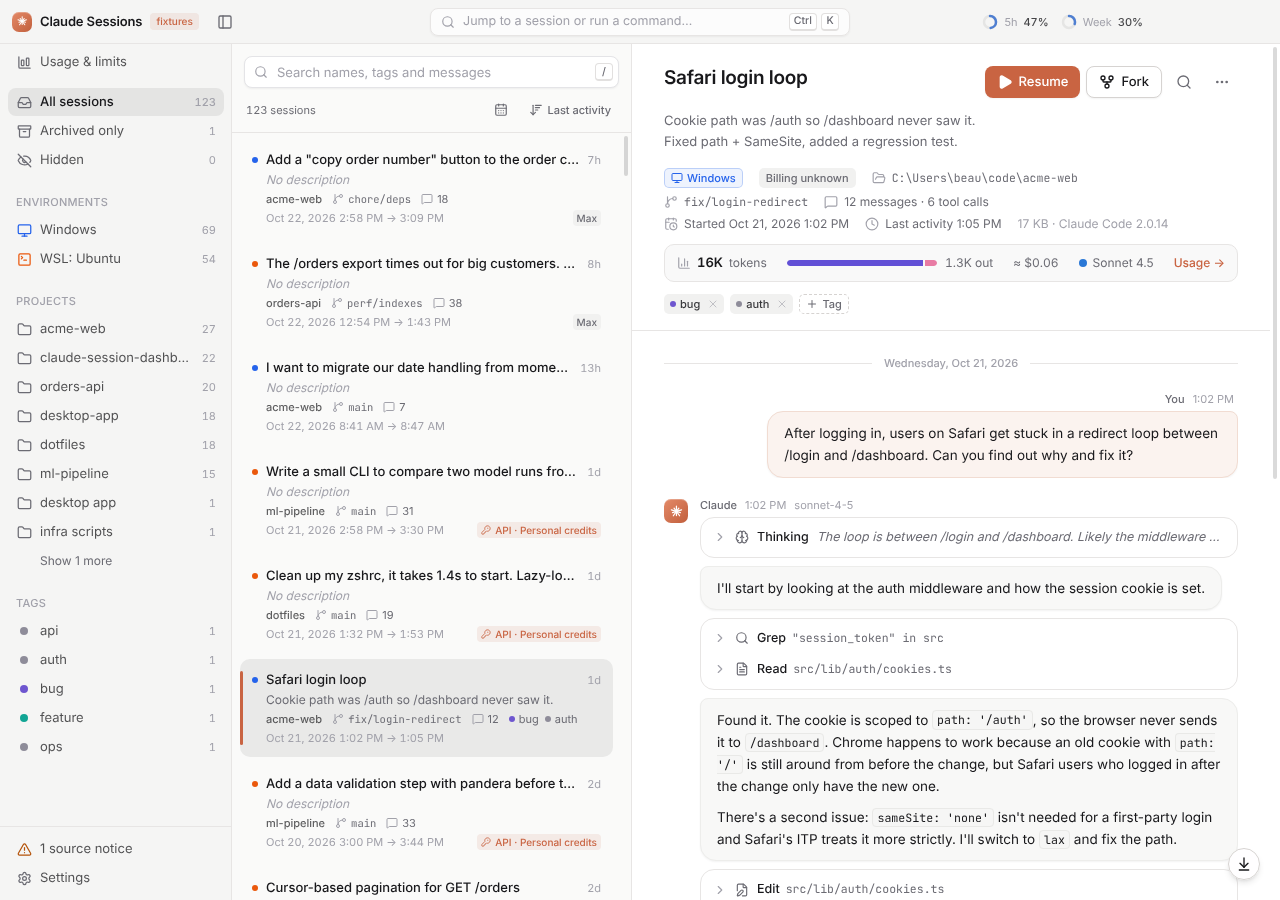
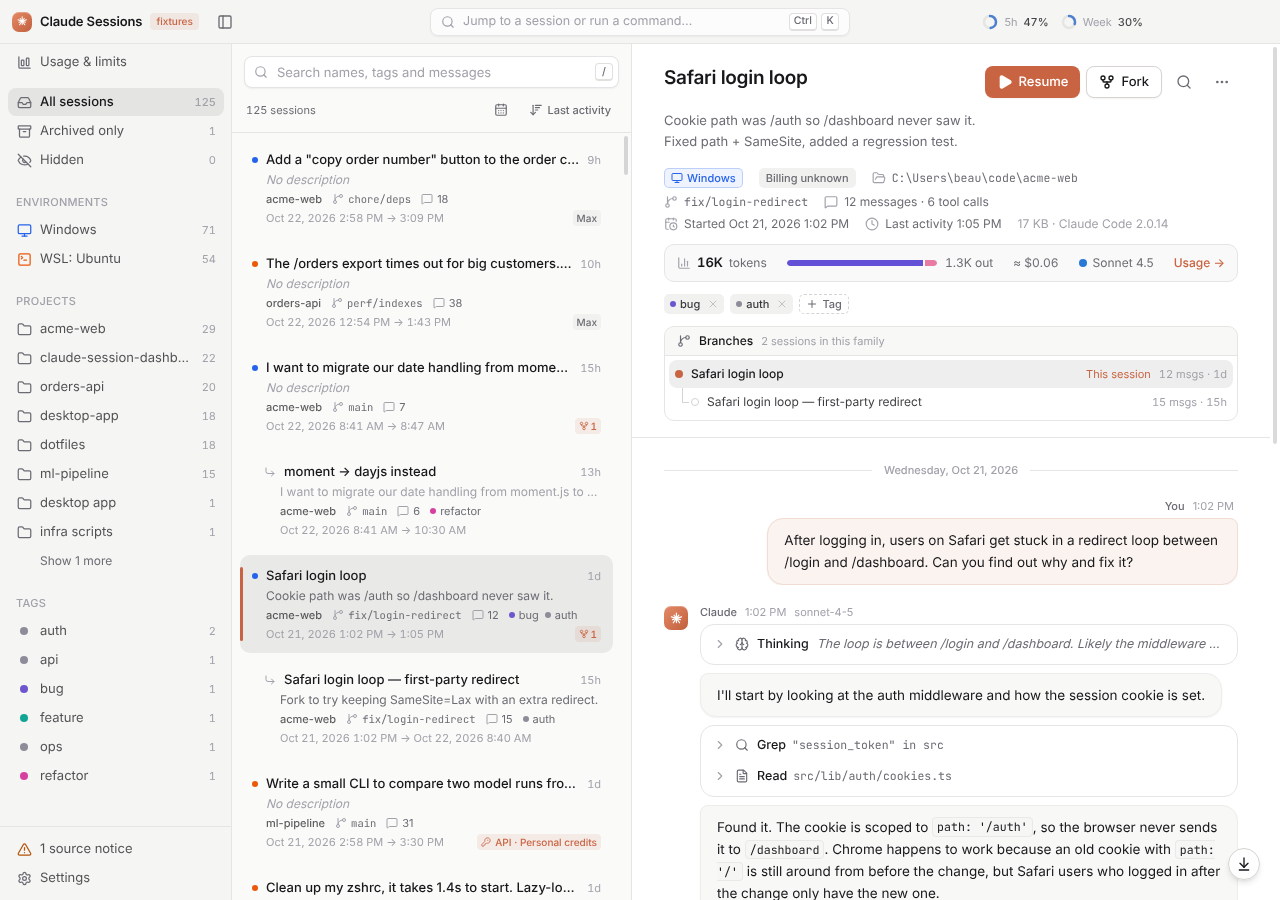
Document branching, its .claude exception and decisions; add screenshots
Claude-Session: https://claude.ai/code/session_015gkGBycyM6KsCDcotDQC5D

diff --git a/README.md b/README.md
@@ -17,6 +17,10 @@ resumes any session in a terminal with its full context.
 - **Resume and Fork** in Windows Terminal (or PowerShell / cmd). `--dangerously-skip-permissions`
   is on by default, with a per-launch checkbox and a warning label. "Copy resume command" lets you
   paste it yourself.
+- **Branch from any message.** Hover a message and click **Branch** (or right-click it) to continue
+  the conversation from that point in a new session, with the same launch options as Resume. Branches
+  and forks show up in a **Branches** panel with a small family tree, and the list can group them
+  under their parent. Forks made outside the app are detected too. See [Branching](#branching).
 - **A permanent archive.** Every session file is copied to `%APPDATA%\ClaudeSessionDashboard\archive`,
   so sessions survive Claude Code's `cleanupPeriodDays` cleanup. If the original is gone, Resume puts
   the archived copy back first (it never overwrites an existing file).
@@ -38,7 +42,9 @@ The app is built around these rules (see `CLAUDE.md`):
    exception: when you resume a session whose file is _missing_, it copies the archived copy back to
    the original path. That copy uses an exclusive-create flag, so it can never overwrite a file.
    Every other write goes through a guard that refuses any path inside a `.claude` folder or outside
-   the app's data folder.
+   the app's data folder. **Branch from here** adds one more narrow case: it creates one _new_
+   session file next to the session it branches from (see [Branching](#branching)). It never
+   changes or deletes an existing file.
 2. The app's own data lives only in `%APPDATA%\ClaudeSessionDashboard\` (metadata, settings, archive,
    cache, and Chromium's own files).
 3. There is no "delete session" feature. **Hide** is only a flag in the app's metadata.
@@ -134,6 +140,35 @@ WSL session:      wt.exe wsl.exe -d <distro> --cd "<linux-cwd>" -- bash -lic "cl
 
 If `wt.exe` isn't found, the app falls back to a new PowerShell window. You can also pick PowerShell
 or cmd as your preferred terminal.
+
+### Branching
+
+![Branch dialog](docs/branch-dialog.png)
+
+- **Branch from here:** hover a message (yours or Claude's) and click **Branch**, or right-click it.
+  Right-clicking one of your messages also offers **Branch from before this message**, to ask
+  something different from that point. The dialog shows the message the branch ends with, how many
+  messages it keeps, the new file, and the usual launch options (folder, terminal, billing,
+  `--dangerously-skip-permissions`). **Branch** creates the session and resumes it; **Create only**
+  just creates it.
+- **The first time**, the app explains what it writes and asks you to confirm: one new session file
+  (with a new session id) in the same project folder in `.claude/projects`. Nothing existing is
+  changed or deleted, so the original session stays exactly as it was.
+- **Tool calls stay whole.** If the message you pick calls tools whose results come later, the
+  branch includes those results. If that isn't possible (for example, you typed a new message before
+  a result arrived), it ends at the nearest earlier point where every tool call has its result. The
+  dialog tells you when this happens.
+- **Naming:** a new branch is called `<parent name> — branch` (numbered if that's taken) and opens
+  with its name selected, so you can type a better one straight away. Forks started with the **Fork**
+  button get the same name when they appear.
+- **Fork** (the button next to Resume) still branches from the end with `claude --resume <id>
+--fork-session`.
+- **Lineage:** the **Branches** section at the top of a session shows where it was branched from
+  (and after which message), and a tree of the whole family; click any entry to open it. In the
+  transcript, a marker shows where a branch starts, and where other branches split off. In the list,
+  branches sit under their parent (turn this off in the sort menu: **Group branches under parent**).
+
+![Branches panel and branch point](docs/branches.png)
 
 ### Keeping sessions longer in Claude Code itself
 
@@ -355,12 +390,14 @@ records of sessions whose files are gone are kept as they were.
 | ![Find in session](docs/find.png)                  | ![Command palette](docs/command-palette.png)         |
 | ![Settings](docs/settings.png)                     | ![Light theme](docs/main-light.png)                  |
 | ![Enable live limits](docs/enable-live-limits.png) | ![Disable live limits](docs/disable-live-limits.png) |
+| ![Branch from a message](docs/branch-intro.png)    | ![Branches](docs/branches.png)                       |
 
 ## How it works
 
 ```
 src/
-  shared/      Types and pure logic used by both processes: JSONL parsing, titles, Markdown export
+  shared/      Types and pure logic used by both processes: JSONL parsing, titles, Markdown export,
+               branch planning (branch.ts) and lineage detection (lineage.ts)
   main/
     core/      Small, tested building blocks: WSL decoding, launch commands, archive, restore,
                atomic JSON store, write guards
@@ -420,6 +457,46 @@ These are choices I made where the spec left room, or had to deviate:
   app never deletes anything.
 - **Code fonts:** JetBrains Mono ligatures are turned off so code shows the characters that are really
   there (`=>` stays `=>`).
+
+### Branching decisions
+
+- **Claude Code can't resume interactively at a message.** I checked `claude --help` (Claude Code
+  2.1.309) and the CLI reference (`code.claude.com/docs/en/cli-reference`): `--resume`,
+  `--fork-session` and `--session-id` are documented, but nothing resumes at a chosen message. The
+  CLI has a _hidden_ `--resume-session-at <message id>` flag, but its own description says it only
+  works with `--print` (one non-interactive reply), so it can't open a normal session. `/rewind` and
+  double-Esc inside Claude Code work only by hand. So the app uses the fallback: it writes a new
+  session file and runs the normal `claude --resume <new id>`.
+- **The new file looks like Claude Code's own `/branch` output:** the original lines up to the cut,
+  in the same order, with the same message uuids, `sessionId` set to the new id, and a
+  `forkedFrom: { sessionId, messageUuid }` marker on each entry. Lines are re-serialised as JSON
+  (same content). Summaries and file snapshots that point past the cut, and custom titles, aren't
+  copied. Lines that couldn't be parsed are left out. Message and request ids are unchanged, so the
+  usage view treats copied responses the way it treats Claude Code's own forks.
+- **Where the cut goes:** "Branch from here" keeps the whole message (Claude's message can span
+  several lines). On one of Claude's messages that calls tools, the branch keeps going until every
+  call has its result, but never into a new prompt or a new reply; otherwise it moves back. A tool
+  call that never got a result (a crashed session) is left as it was, since there's nothing to split.
+- **The new file goes in the original's project folder** (taken from the original path, even for an
+  archived-only session, whose file isn't restored). It's created with an exclusive flag, through a
+  write guard that only allows `<uuid>.jsonl` directly in that folder. A stopped WSL distro can't be
+  written to, so the dialog says so.
+- **Lineage, strongest signal first:** the app's own record (Branch from here, Fork), then
+  `forkedFrom` markers, then entries that still carry another session's id (older Claude Code
+  copies), then shared history: forks keep the original message uuids, so sessions whose first prompt
+  has the same uuid are one family. In a family, a session's parent is the one it shares the most
+  messages with. Which of two is the original: the one that stopped where they split; if both went on,
+  the one whose file was created first (file birth time, or when the app first archived it). This
+  last case is a best guess for forks made outside the app; anything made from the app is exact.
+- **Only families are read twice.** Finding the split point needs the message list, so the app reads
+  those files (and caches the result); sessions without relatives cost nothing extra.
+- **The startup cache format changed (v2)**, so the first start after updating re-reads every
+  session once.
+- **Grouping in the list** is on by default and remembered per computer. A family sits where its
+  highest-sorted member would be (with the default sort, the most recently active one).
+- **Fixtures:** `fixtures/` now includes a `--fork-session` copy of the Safari session and a `/branch`
+  copy of the moment migration session (`scripts/make-branch-fixtures.mjs`, which only adds those two
+  files). The session counts in the fixtures went from 7 to 9.
 
 ### Phase 5 decisions
 

diff --git a/CLAUDE.md b/CLAUDE.md
@@ -15,6 +15,8 @@ This repo is built in a Claude Code cloud session (Linux). The app runs on **Win
 
 **Phase 5 (usage, limits, API credits, model tracking):** see [`docs/PHASE-5-USAGE-TRACKING.md`](docs/PHASE-5-USAGE-TRACKING.md). It adds two narrow, opt-in exceptions to the rules above, each allowed only after I explicitly approve it in the app: (a) editing the `statusLine` key in Claude's `settings.json` (backup first, change nothing else, with an undo that restores the previous value exactly), and (b) read-only reporting calls to `https://api.anthropic.com` once I've added an API key.
 
+**Branching ("Branch from here"):** a third narrow exception to rule 1. To branch from a message, the app may **add one new session file** (`<new-uuid>.jsonl`) in the same project folder as the session it branches from, holding the original's lines up to that message with the `sessionId` fields changed. The file is created exclusively (it never overwrites), and nothing existing is ever changed or deleted. The app explains this and asks for confirmation the first time.
+
 ---
 
 ## Stack
